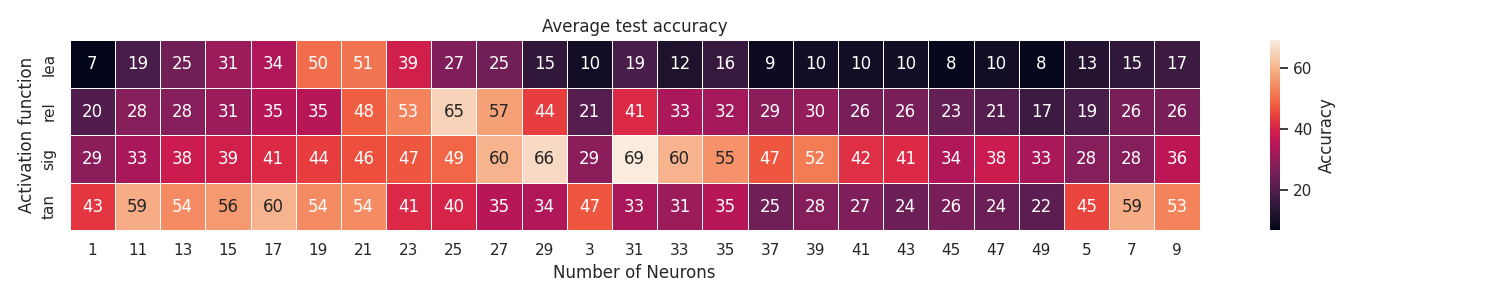
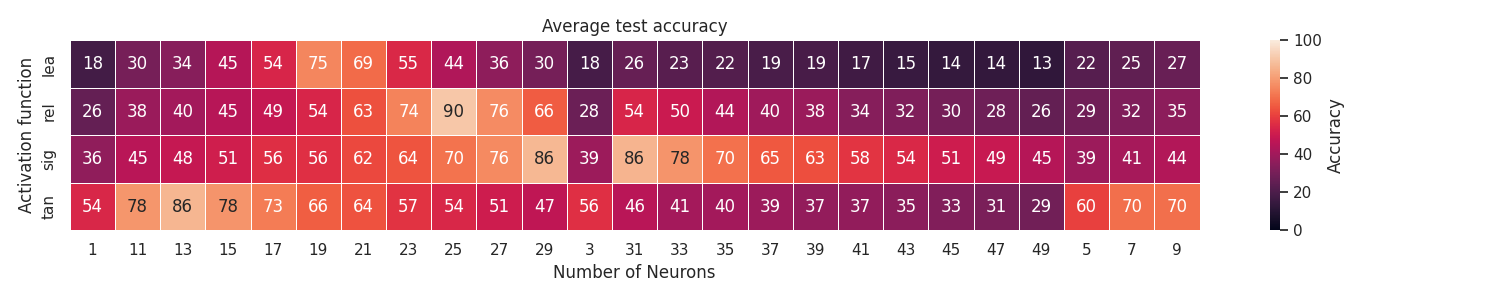
Adding parameter --z-range to patas draw heatmap

diff --git a/patas/graphics.py b/patas/graphics.py
@@ -49,7 +49,7 @@ def render_heatmap(x_column, y_column, z_column,
                    title, x_label, y_label, z_label,
                    x_change, y_change, z_change, annot, fmt, 
                    input_file, output_file, 
-                   fig_size, aggfunc):
+                   fig_size, aggfunc, z_range):
 
     data_long = pd.read_csv(input_file)
 
@@ -67,7 +67,7 @@ def render_heatmap(x_column, y_column, z_column,
         cbar_kws['label'] = z_label
 
     f, ax = plt.subplots(figsize=fig_size)
-    g = sns.heatmap(data, annot=annot, fmt=fmt, linewidths=.5, ax=ax, cbar_kws=cbar_kws)
+    g = sns.heatmap(data, annot=annot, fmt=fmt, linewidths=.5, ax=ax, vmin=z_range[0], vmax=z_range[1], cbar_kws=cbar_kws)
 
     if x_label:
         g.set_xlabel(x_label)

diff --git a/patas/argparsers.py b/patas/argparsers.py
@@ -334,6 +334,15 @@ def parse_patas_draw_heatmap(argv):
                         help='label for the colorbar',
                         action='store')
 
+    parser.add_argument('--z-range', 
+                        type=float, 
+                        dest='z_range',
+                        default=(None, None),
+                        nargs=2,
+                        metavar='MIN MAX',
+                        help='set the minimum and maximum values for the z legend',
+                        action='store')
+
     parser.add_argument('--output', 
                         type=str, 
                         default=None,

diff --git a/patas/main.py b/patas/main.py
@@ -305,7 +305,7 @@ def do_draw_heatmap(argv):
                             args.title, args.x_label, args.y_label, args.z_label,
                             args.x_change, args.y_change, args.z_change, args.annot, args.fmt, 
                             args.input_file, args.output_file, 
-                            args.fig_size, args.aggfunc)
+                            args.fig_size, args.aggfunc, args.z_range)
 
 
 def do_draw_categories(argv):
